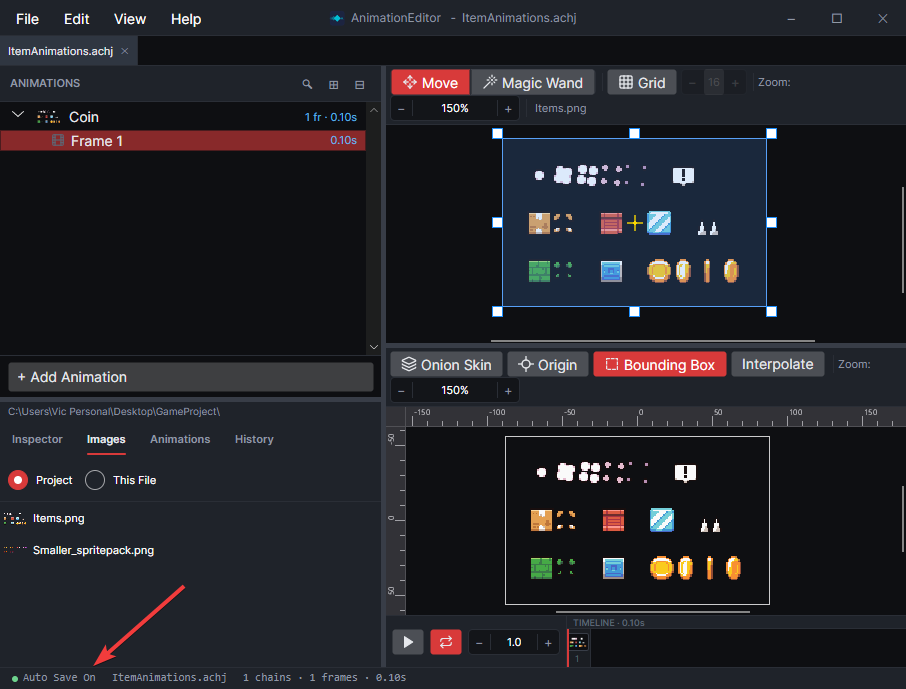
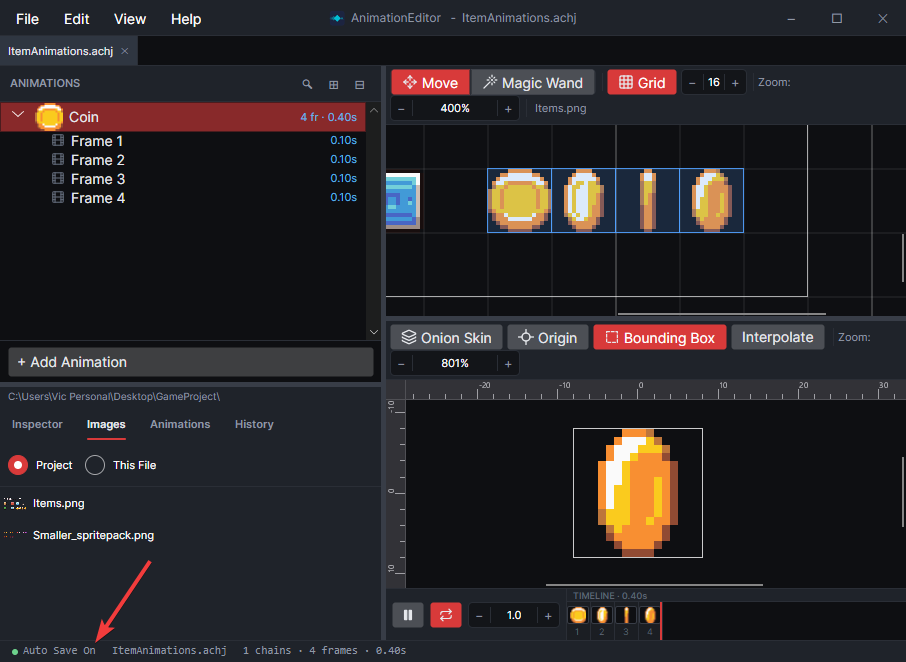
docs: move Quick Start Save back to the end; add Next Steps

diff --git a/docs/animationeditor/quick-start.md b/docs/animationeditor/quick-start.md
@@ -26,7 +26,7 @@ Click the **Add Animation** button to add a new animation.
 
 <figure><img src="../.gitbook/assets/quick-start-add-animation-button.png" alt="Add Animation button highlighted below the animation list"><figcaption></figcaption></figure>
 
-Give the animation a name - it now displays as an empty animation.
+Give the animation a name. It now displays as an empty animation.
 
 <figure><img src="../.gitbook/assets/quick-start-new-animation.png" alt="New empty animation named Coin in the animation list"><figcaption></figcaption></figure>
 
@@ -38,13 +38,7 @@ Drag the desired image from the **Images** tab onto the new frame to use the ima
 
 <figure><img src="../.gitbook/assets/quick-start-drop-image-on-frame.gif" alt="Dragging Items.png from the Images tab onto the new frame"><figcaption></figcaption></figure>
 
-## Save
-
-Files must be initially saved by clicking **File ▸ Save**. These files should be saved in your game's project, such as in the same folder as your .png image files.
-
-Once a file is saved, the AnimationEditor automatically saves any changes.
-
-<figure><img src="../.gitbook/assets/quick-start-auto-save.png" alt="Status bar showing Auto Save On after the file is saved"><figcaption></figcaption></figure>
+You can save at any time with **File ▸ Save**. Auto-save starts after the first save, so saving early protects your work.
 
 ## Edit Frames
 
@@ -67,3 +61,17 @@ Frames can be moved by dragging the frame. The mouse wheel or touchpad can be us
 Click the animation's name to play it in the preview panel.
 
 <figure><img src="../.gitbook/assets/quick-start-preview.gif" alt="Selecting the Coin animation to play it in the preview"><figcaption></figcaption></figure>
+
+## Save
+
+Files must be initially saved by clicking **File ▸ Save**. These files should be saved in your game's project, such as in the same folder as your `.png` image files.
+
+Once a file is saved, the AnimationEditor automatically saves any changes.
+
+<figure><img src="../.gitbook/assets/quick-start-auto-save.png" alt="Status bar showing Auto Save On after the file is saved"><figcaption></figcaption></figure>
+
+## Next Steps
+
+* [Build an Animation](how-to/build-an-animation.md) covers more ways to add frames and set their timing.
+* [Define Frame Regions](how-to/define-frame-regions.md) covers grid snapping, the magic wand, and exact pixel coordinates.
+* [Preview an Animation](how-to/preview-an-animation.md) covers playback speed and onion skin.
